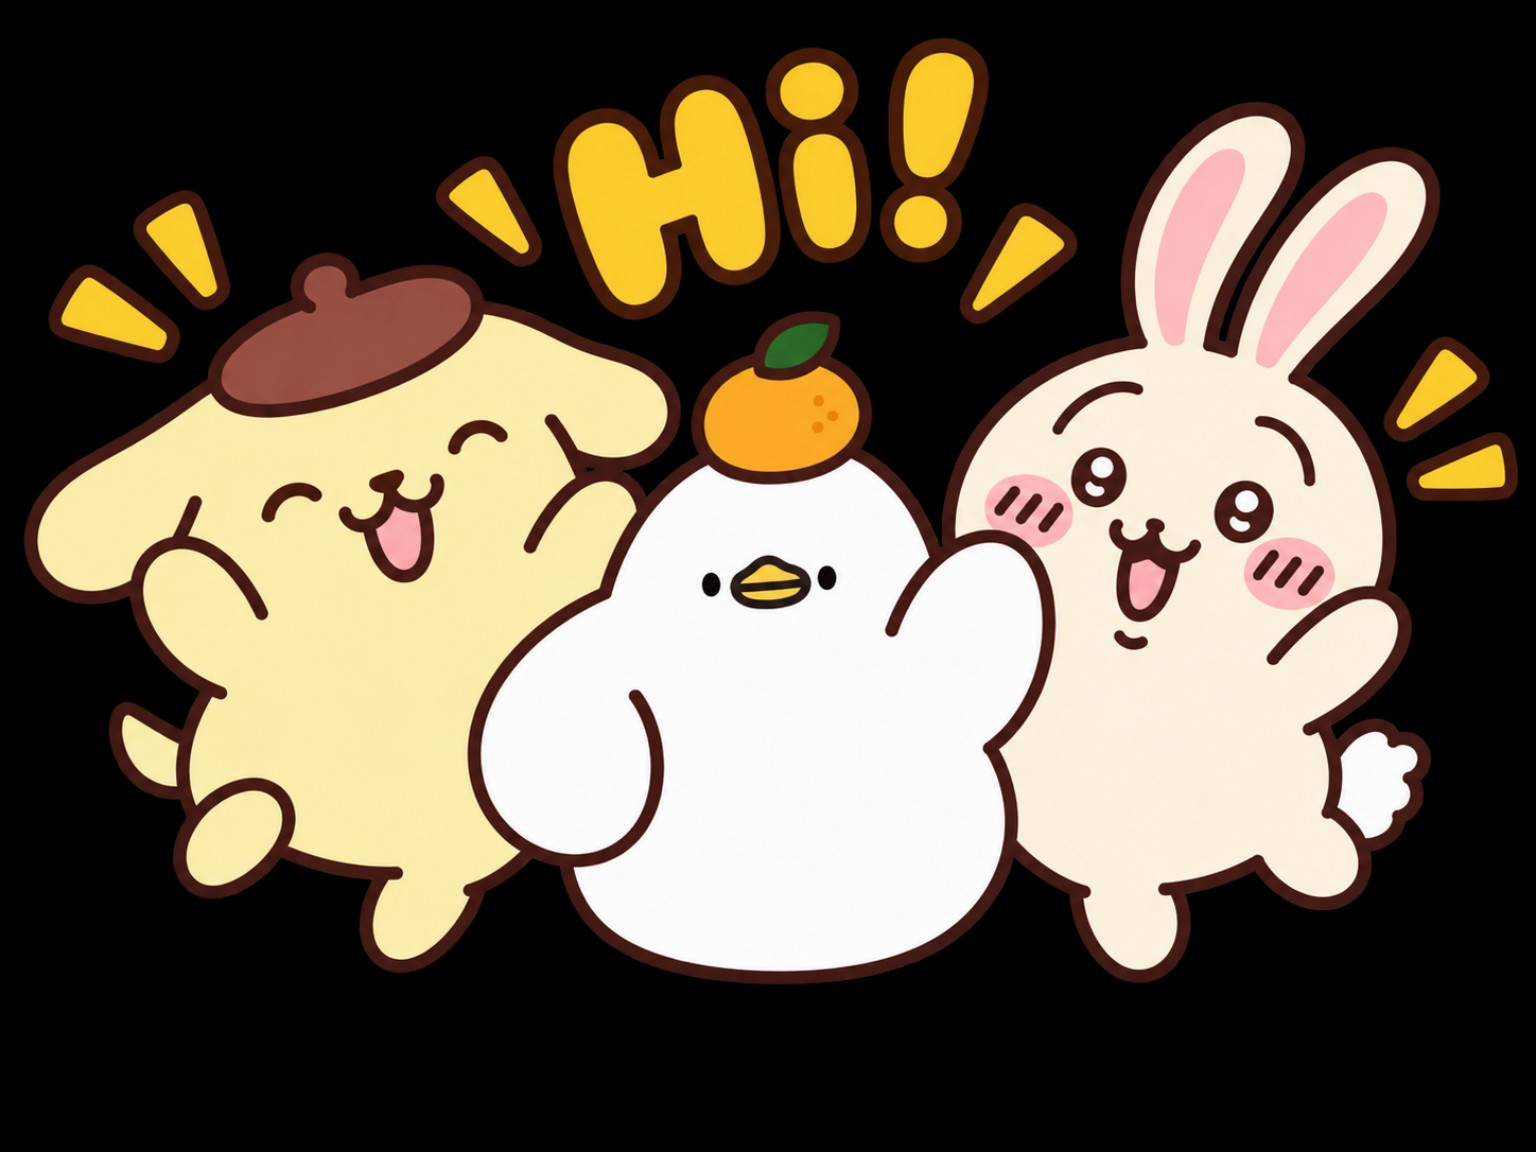
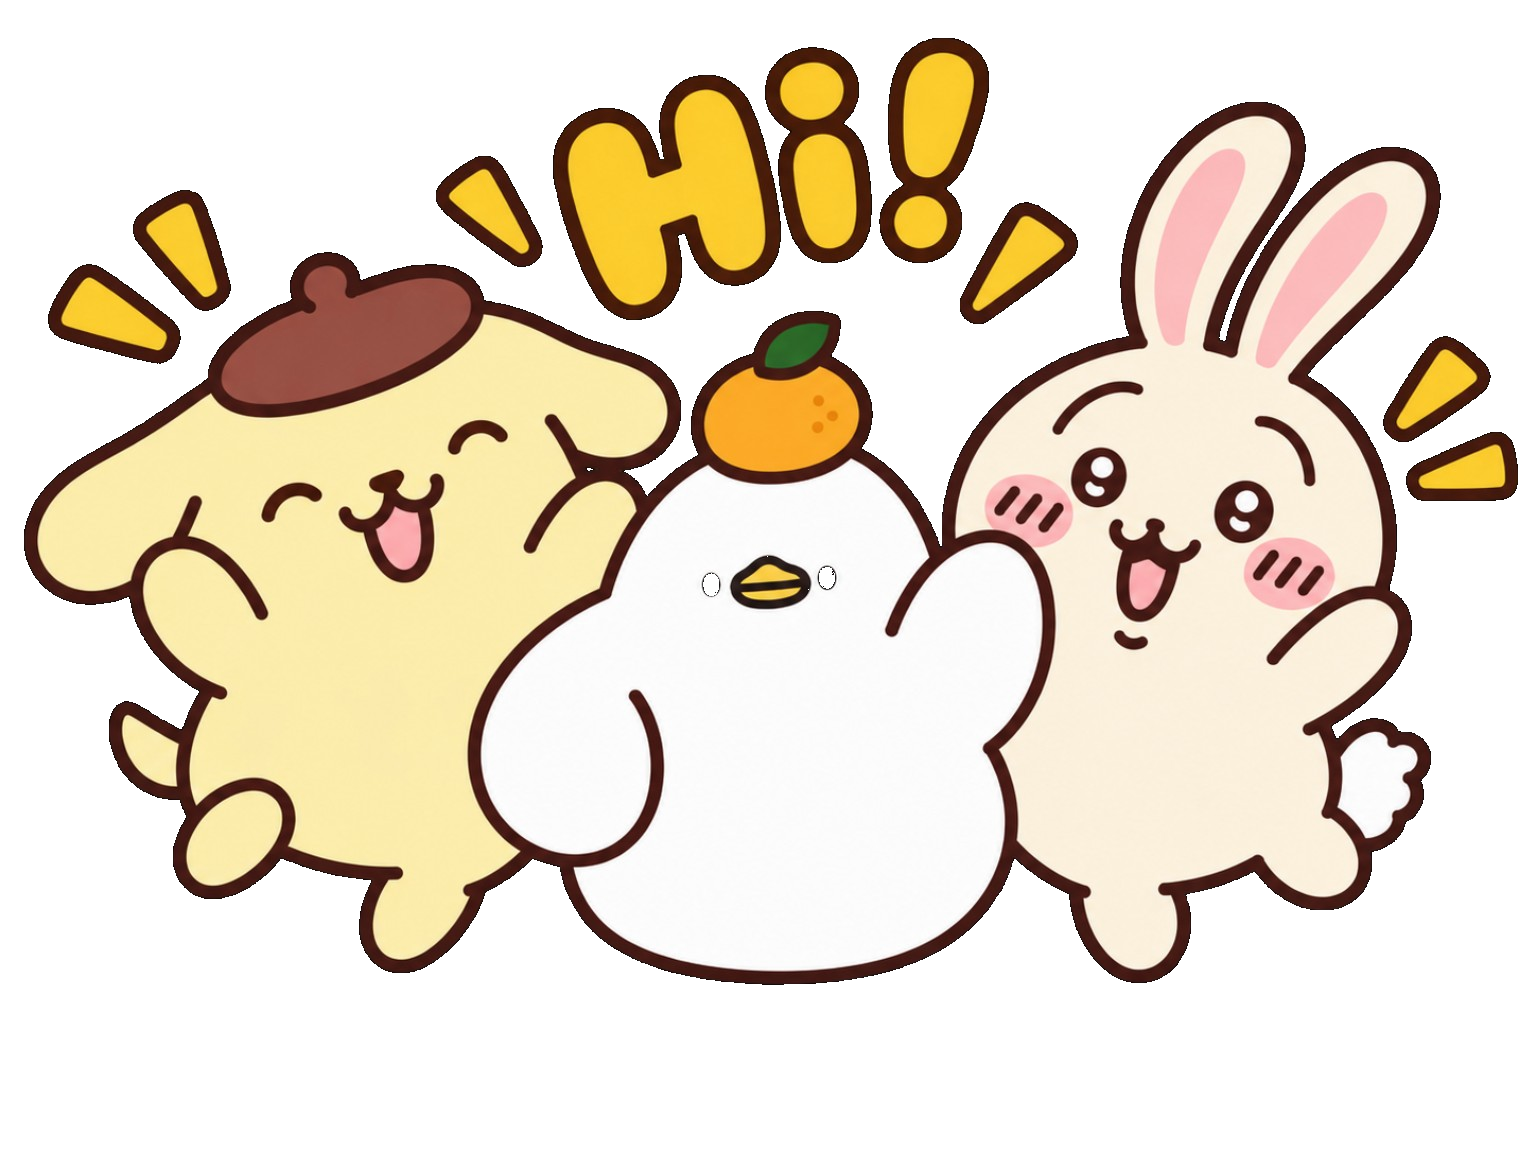
Add files via upload

diff --git a/README_PUBLIC.md b/README_PUBLIC.md
@@ -1,27 +1,11 @@
-# Kyushu_2026_oct — v4.2.0 旅伴手帳
+Kyushu_2026_oct v5.3.12a Black Background Hotfix
 
-公開 GitHub Pages 只包含 UI、Firebase Auth 與角色素材，不包含私人行程內容。
-私人行程仍由 Firebase Authentication + Realtime Database Rules 保護。
+說明：
+- 修正首頁長按彩蛋中的兩張新圖背景為透明，不再顯示黑底。
+- 這是熱修復包，只需要覆蓋以下兩個檔案：
+  - duck_gang.png
+  - seal_gang.png
 
-## 本版主要更新
-- 旅伴主題完整重排
-- 雙角色 Hero
-- Food / Booking / Shopping / Notes 情境角色
-- 探頭、完成慶祝、星星彩蛋等微互動
-- 旅行圖示與秋季裝飾
-
-不要把 PrivateSetup / trip-content.json 上傳到 GitHub。
-
-
-更新：v5.0.0 Home Hero Refresh — 首頁主圖改為新的旅行插圖。
-
-更新：v5.3.7 Hero + Weather Interaction Cleanup — 首頁單點不再說話／位移，天氣角色改為卡片內對話泡泡。
-
-
-更新：v5.3.10 Egg Stability + Typography Fix — 首頁長按彩蛋開啟後鎖定同一張圖直到點背景關閉；阻止其他 celebration 覆蓋彩蛋；角色泡泡與底部文字縮小並限制在卡片內，長句自動安全排版。
-
-
-更新：v5.3.11 Home Egg Asset Refresh + Dash Marquee — 首頁長按彩蛋池改為 6 張（新增 duck_gang / seal_gang，移除 usagi_dash / purin_clap）；usagi_dash 改為低機率頁面切換跑馬燈彩蛋，並附上「嗚拉呀哈呀哈嗚拉～」文字。
-
-
-更新：v5.3.12 Day Buddy Speech Position Fix — 調整每日行程旁小角色點擊後的對話泡泡位置，優先貼齊角色左右側顯示，避免離角色太遠或看起來偏位。
+適用版本：
+- 已經套用 v5.3.11 / v5.3.12 / v5.3.12 cumulative 的版本。
+- 若你目前畫面只有這兩張圖有黑底，直接覆蓋即可。
